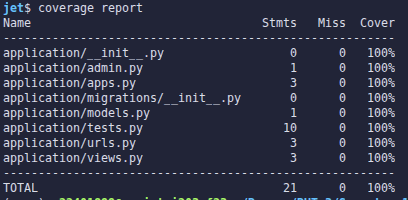
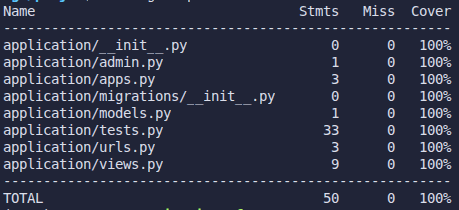
Écriture des tests manquants de home, about et contact

diff --git a/projet/application/tests.py b/projet/application/tests.py
@@ -5,11 +5,51 @@ class HomeViewTest(TestCase):
 
     # test url page d'accueil
     def test_home_status_code(self):
-        print(reverse("home"))
-        response = self.client.get(reverse('home')) #reverse("home") permet d'utiliser le nom de l'URL défini dans urls.py
+        response = self.client.get(reverse('home1')) #reverse("home1") permet d'utiliser le nom de l'URL défini dans urls.py
         self.assertEqual(response.status_code, 200)
+
+        response = self.client.get(reverse('home2')) 
+        self.assertEqual(response.status_code, 200)
+
+        response = self.client.get("/application/home/Cricri") 
+        self.assertEqual(response.status_code, 200)
+
+        response = self.client.get("/application/hom") 
+        self.assertEqual(response.status_code, 404)
 
     # test contenu de la page d'accueil
     def test_home_content(self):
-        response = self.client.get(reverse('home'))
+        response = self.client.get(reverse('home1'))
         self.assertContains(response, 'Hello Django !')
+
+        response = self.client.get(reverse('home2'))         
+        self.assertContains(response, 'Hello Django !')
+
+        response = self.client.get("/application/home/Cricri") 
+        self.assertContains(response, 'Hello Cricri !')
+
+
+class ContactViewTest(TestCase):
+
+    # test url page de contact
+    def test_contact_status_code(self):
+        response = self.client.get(reverse('contact')) 
+        self.assertEqual(response.status_code, 200)
+
+    # test contenu de la page de contact
+    def test_contact_content(self):
+        response = self.client.get(reverse('contact'))
+        self.assertContains(response, "<h1>Contactez-nous !</h1><p><a href='mailto:lorem@ipsum.dolor'>Envoyer un email</a></p>")
+
+
+class AboutViewTest(TestCase):
+
+    # test url page about
+    def test_about_status_code(self):
+        response = self.client.get(reverse('about'))
+        self.assertEqual(response.status_code, 200)
+
+    # test contenu de la page about
+    def test_about_content(self):
+        response = self.client.get(reverse('about'))
+        self.assertContains(response, "<h1>What about us ?</h1><p>Maelyss FRONTON, étudiante de BUT3 Informatique à l'<a href='https://www.univ-orleans.fr/fr/iut-orleans'>IUT d'Orléans</a><br><i>🎵 What about all the broken happy ever afters? 🎶🎼</i></p>")

diff --git a/projet/application/views.py b/projet/application/views.py
@@ -3,12 +3,12 @@ from django.http import HttpResponse
 def home(request):
     return HttpResponse("<h1>Hello Django !</h1><p>Je vous souhaite la bienvenue sur cette application Django avec la page d'accueil.</p>")
 
-def home(request, param):
+def home_param(request, param):
     return HttpResponse("<h1>Hello " + param + " !</h1><p>Je vous souhaite la bienvenue sur cette application Django avec la page d'accueil.</p>")
 
 def contact(request):
     return HttpResponse("<h1>Contactez-nous !</h1><p><a href='mailto:lorem@ipsum.dolor'>Envoyer un email</a></p>")
 
 def about(request):
-    return HttpResponse("<h1>À propos de nous</h1><p>Maelyss FRONTON, étudiante de BUT3 Informatique à l'<a href='https://www.univ-orleans.fr/fr/iut-orleans'>IUT d'Orléans</a></p>")
+    return HttpResponse("<h1>What about us ?</h1><p>Maelyss FRONTON, étudiante de BUT3 Informatique à l'<a href='https://www.univ-orleans.fr/fr/iut-orleans'>IUT d'Orléans</a><br><i>🎵 What about all the broken happy ever afters? 🎶🎼</i></p>")
 

diff --git a/projet/application/urls.py b/projet/application/urls.py
@@ -2,10 +2,9 @@ from django.urls import path
 from . import views
 
 urlpatterns = [
-    path("", views.home, name="home"),
-    path("home", views.home, name="home"),
-    path("<param>", views.home, name="home"),
-    path("home/<param>", views.home, name="home"),
+    path("", views.home, name="home1"),
+    path("home", views.home, name="home2"),
+    path("home/<param>", views.home_param, name="home_param"),
     path("contact", views.contact, name="contact"),
     path("about", views.about, name="about")
 ] 

diff --git a/README.md b/README.md
@@ -15,7 +15,7 @@ Pour lancer l'application, se positionner dans le dossier `./projet` du réperto
 
 Voici la liste des routes accessibles avec l'url `http://127.0.0.1:8000/<route>/` :  
 - `application` ou `application/home` pour la page d'accueil  
-- `application/<nom>` ou `application/home/<nom>`, pour la page d'accueil personnalisée  
+- `application/home/<nom>`, pour la page d'accueil personnalisée (suppression de `application/<nom>` qui créait des conflits avec les autres routes)  
 - `application/contact` pour la page de contact  
 - `application/about` pour en savoir plus sur l'auteur  
 
@@ -26,8 +26,10 @@ Le projet est accompagné de tests se situant dans le dossier `./projet/applicat
 On peut visualiser un rapport de coverage sous forme de tableau en exécutant la commande `coverage report`, dont voici la sortie :  
 ![sortie de la commande de coverage](./images_README/image.png)  
 
-Le dernier rapport de coverage généré peut être visualisé sous forme de fichier HTML en ouvrant dans le navigateur le fichier `./projet/htmlcov/index.html`.  
+Après avoir exécute la commande, le dernier rapport de coverage généré peut être visualisé sous forme de fichier HTML en ouvrant dans le navigateur le fichier `./projet/htmlcov/index.html`.  
 
 ## État d'avancement  
 
-J'en suis au TDn°1, à la question "Petit challenge" sur la dernière page. J'ai créé les vues d'about, contact, home et je les ai routées, il me manque just à écrire les tests associés pour terminer le TD.
+J'en suis au TDn°1, à la question "Petit challenge" sur la dernière page. J'ai créé les vues about, contact, home et je les ai routées, il me manque juste à écrire les tests associés pour terminer le TD.
+
+J'ai terminé les tests et le TDn°1.
